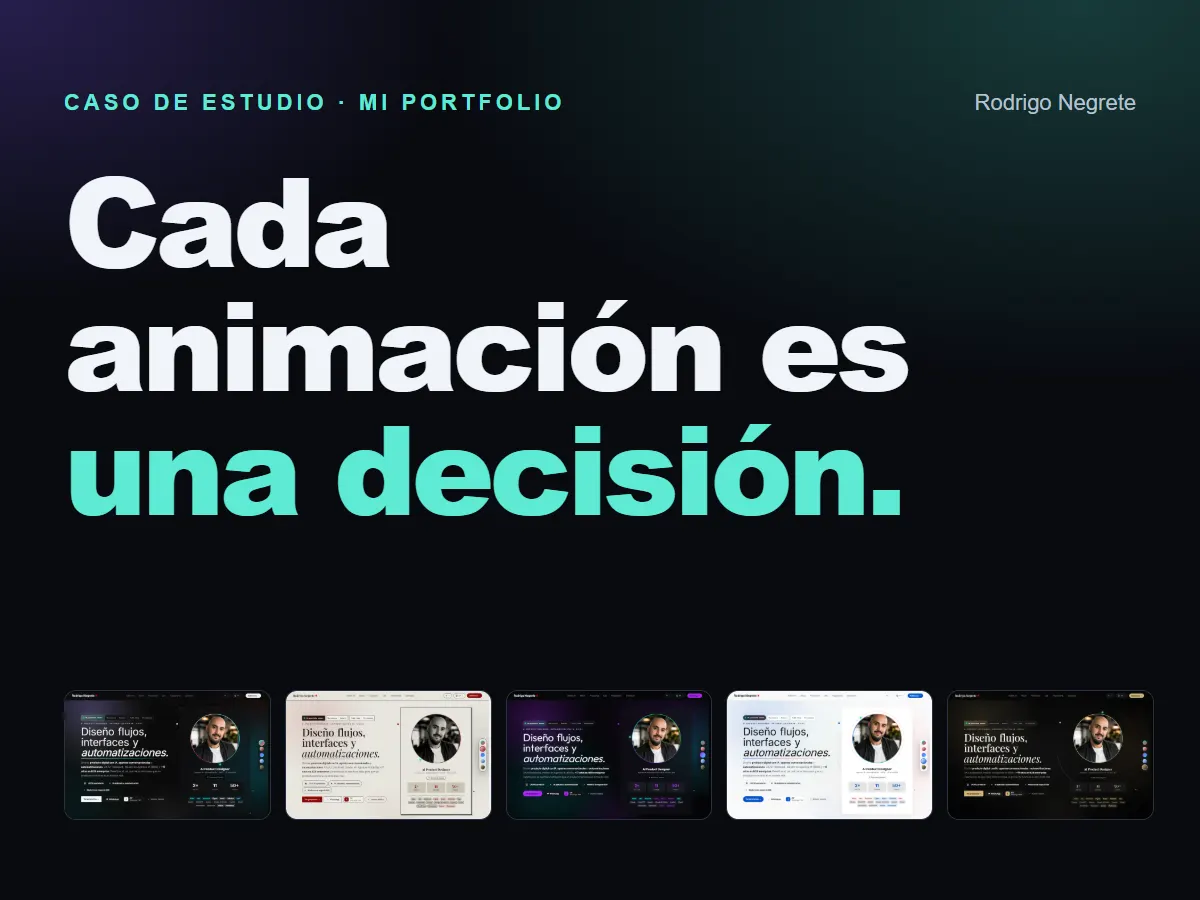
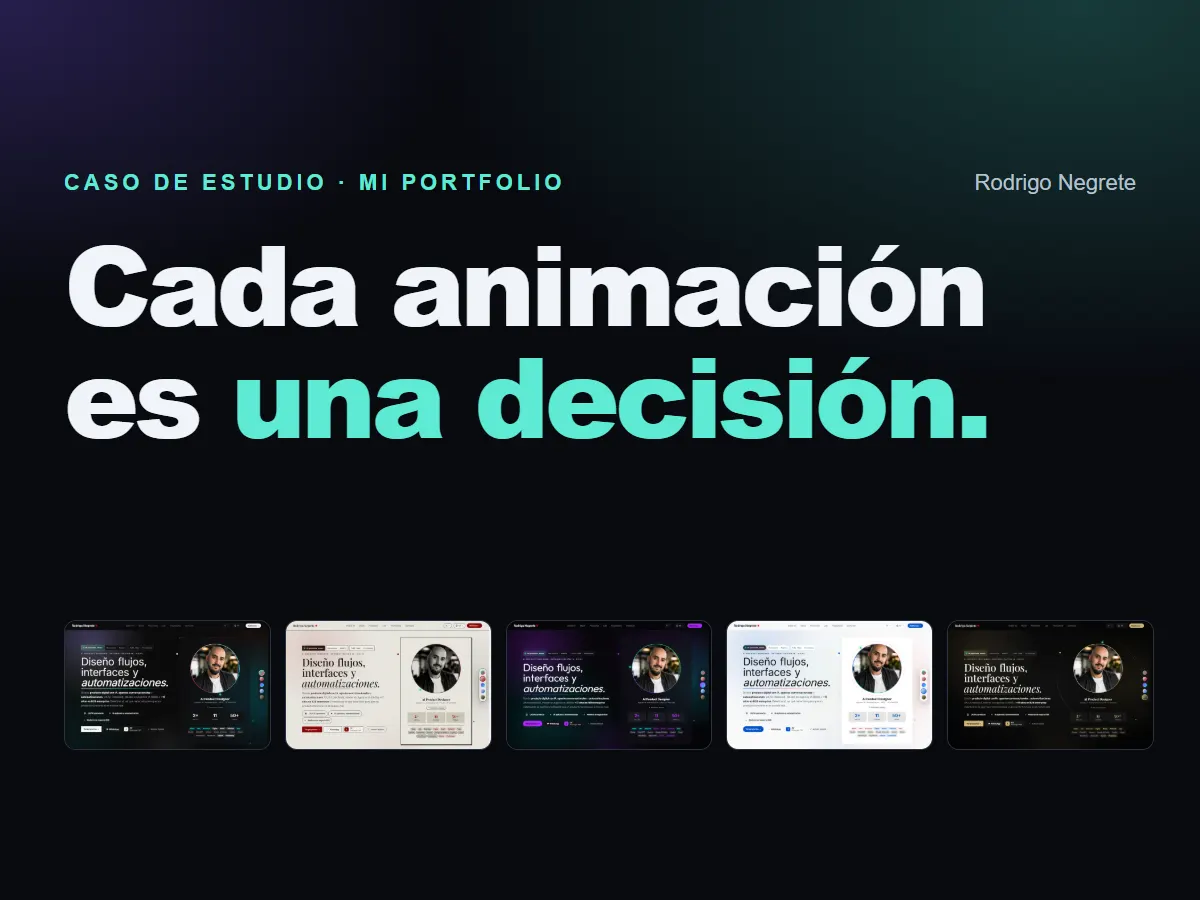
fix(portfolio-2026): imagen de tarjeta con zona segura, grafico y barra superior en movil

diff --git a/public/portfolio-2026/index.html b/public/portfolio-2026/index.html
@@ -261,8 +261,8 @@ footer a{color:var(--acc)}
 <body>
 <a class="skip" href="#main">Saltar al contenido</a>
 <header class="bar">
-  <a class="back" href="/#proyectos">&larr; Volver al portfolio</a>
-  <a class="live" href="/">Ver el portfolio en vivo</a>
+  <a class="back" href="/#proyectos">&larr; Portfolio</a>
+  <a class="live" href="/">Ver en vivo</a>
 </header>
 
 <main id="main">
@@ -641,7 +641,7 @@ footer a{color:var(--acc)}
     <h2>De 64 a 96-98, y <em>un diagnóstico equivocado.</em></h2>
     <p class="intro">Medí con Lighthouse móvil en local sobre la portada. El orden es el de mis mediciones; no conservé los informes, así que no atribuyo cada salto a un commit concreto.</p>
     <figure class="chart">
-      <svg viewBox="0 0 720 330" role="img" aria-labelledby="c1t c1d">
+      <svg viewBox="0 0 720 340" role="img" aria-labelledby="c1t c1d">
         <title id="c1t">Evolución de las puntuaciones de Lighthouse móvil</title>
         <desc id="c1d">Rendimiento: 64, 82, 91 y 96 a 98 en cuatro mediciones. Accesibilidad: de 90 a 100. SEO: de 92 a 100.</desc>
         <g class="g" stroke-width="1"><line x1="70" y1="30" x2="690" y2="30"/><line x1="70" y1="100" x2="690" y2="100"/><line x1="70" y1="170" x2="690" y2="170"/><line x1="70" y1="240" x2="690" y2="240"/></g>
@@ -654,8 +654,8 @@ footer a{color:var(--acc)}
         <line x1="640" y1="100" x2="640" y2="30" stroke="#b9a8ff" stroke-width="3" stroke-dasharray="5 4"/><circle cx="640" cy="100" r="6" fill="#b9a8ff"/><circle cx="640" cy="30" r="6" fill="#b9a8ff"/>
         <text x="654" y="104">90</text><text x="654" y="42">100</text>
         <line x1="672" y1="86" x2="672" y2="30" stroke="#ffd067" stroke-width="3" stroke-dasharray="5 4"/><circle cx="672" cy="86" r="5" fill="#ffd067"/><circle cx="672" cy="30" r="5" fill="#ffd067"/>
-        <text x="100" y="312" text-anchor="middle">Medición 1</text><text x="260" y="312" text-anchor="middle">2</text><text x="420" y="312" text-anchor="middle">3</text><text x="580" y="312" text-anchor="middle">4</text>
-        <text x="620" y="312" text-anchor="middle">Acc. / SEO</text>
+        <text x="100" y="332" text-anchor="middle">Medición 1</text><text x="260" y="332" text-anchor="middle">2</text><text x="420" y="332" text-anchor="middle">3</text><text x="580" y="332" text-anchor="middle">4</text>
+        <text x="620" y="332" text-anchor="middle">Acc. / SEO</text>
       </svg>
       <figcaption class="cap"><span style="color:#5eead4">&#9632;</span> Rendimiento &middot; <span style="color:#b9a8ff">&#9632;</span> Accesibilidad, de 90 a 100 &middot; <span style="color:#ffd067">&#9632;</span> SEO, de 92 a 100. De accesibilidad y SEO solo tengo inicio y fin, no puntos intermedios. Lighthouse móvil en local, con throttling simulado.</figcaption>
     </figure>
